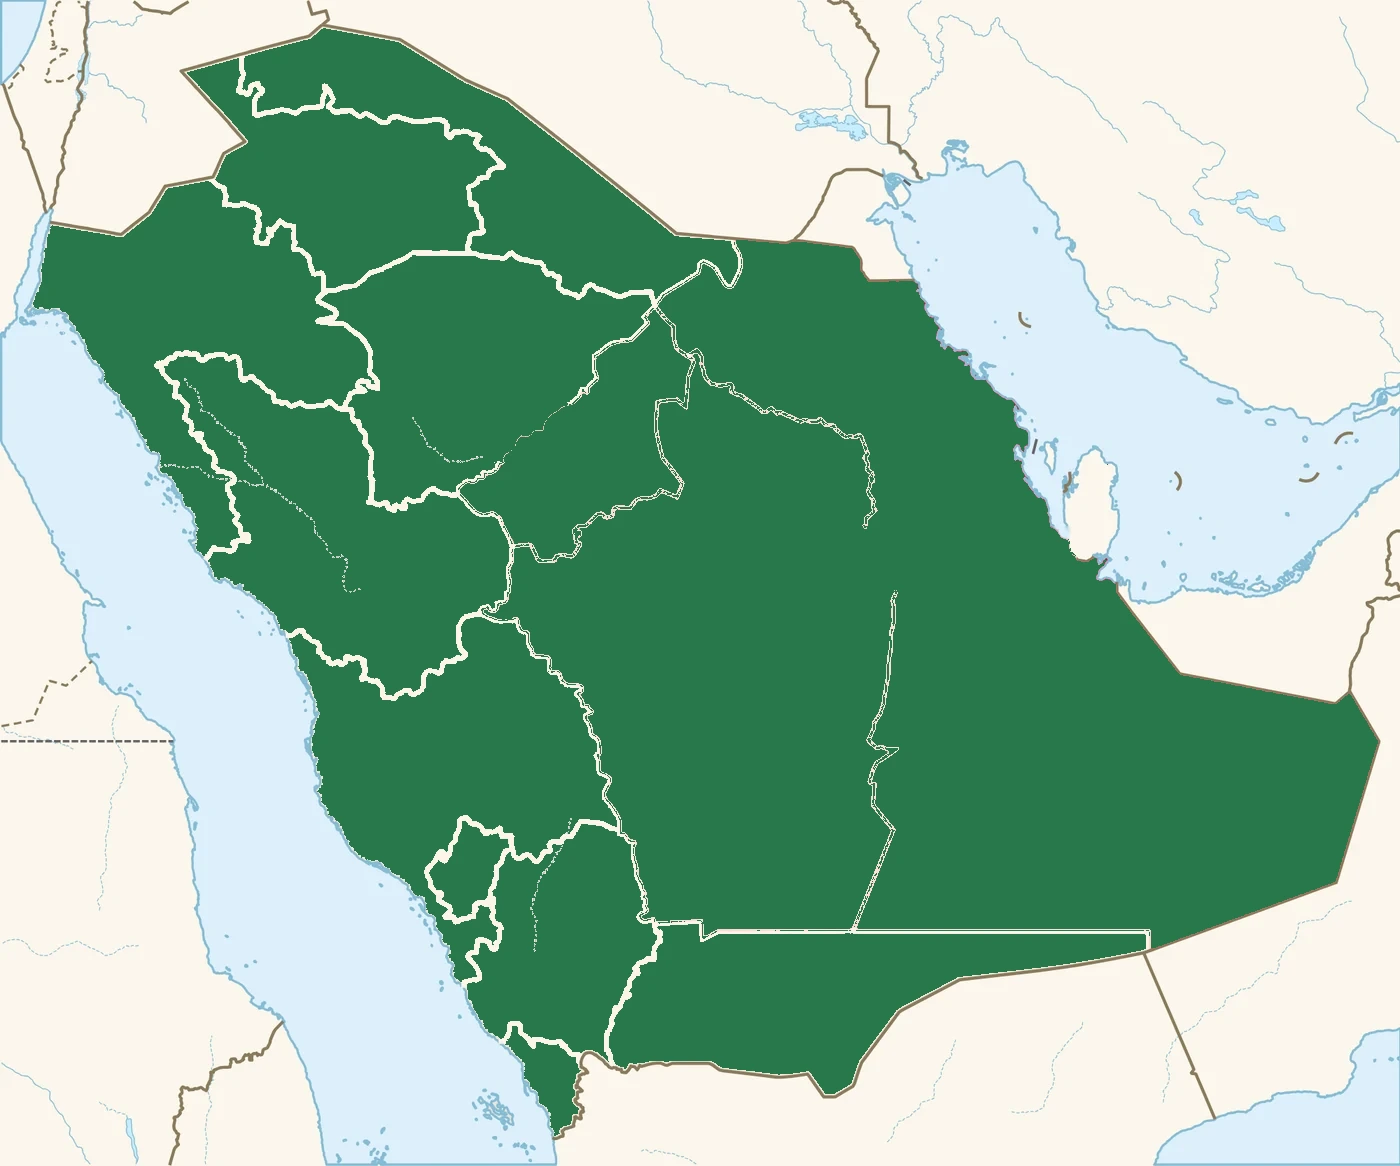
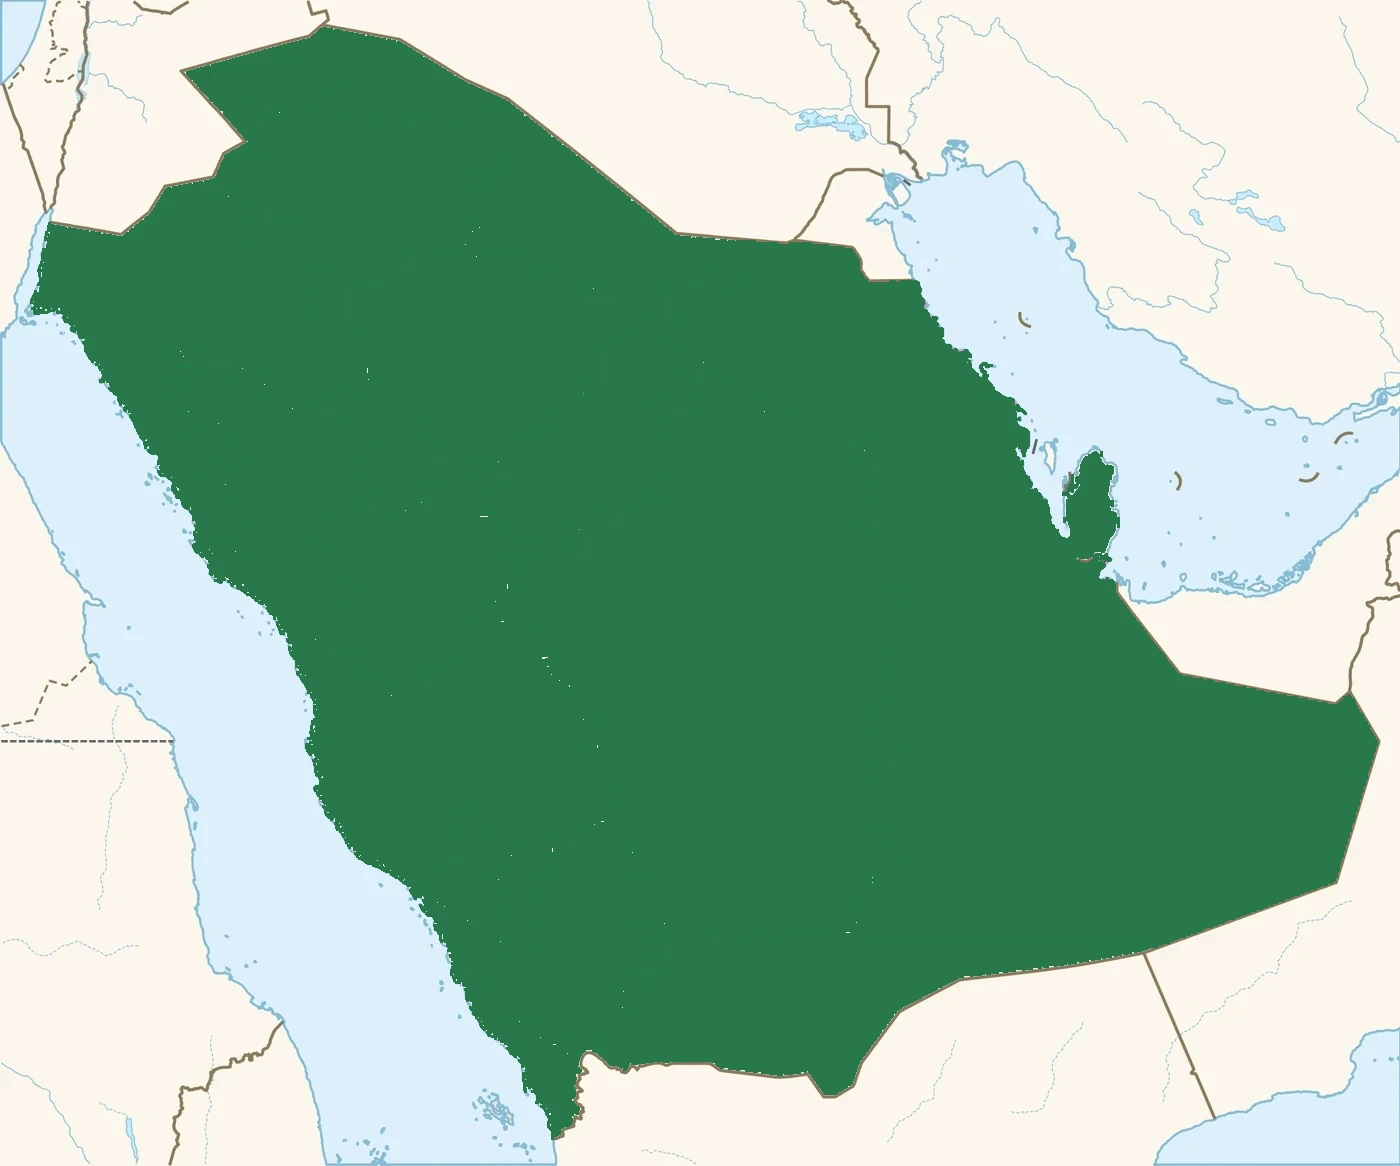
update index.html content

diff --git a/index.html b/index.html
@@ -81,20 +81,9 @@
   .coverage .eyebrow{background:rgba(255,255,255,.14);color:var(--gold-light);}
   .coverage h2{color:var(--white);font-size:clamp(1.8rem,3.6vw,2.4rem);margin-bottom:14px;}
   .coverage p.sub{color:rgba(255,255,255,.8);max-width:600px;margin:0 auto 44px;}
-  .coverage-body{display:flex;align-items:center;gap:56px;max-width:960px;margin:0 auto;text-align:right;}
-  .coverage-map{flex:1.2;min-width:0;}
+  .coverage-body{display:flex;align-items:center;justify-content:center;max-width:640px;margin:0 auto;}
+  .coverage-map{width:100%;min-width:0;}
   .coverage-map img{width:100%;height:auto;display:block;border-radius:18px;box-shadow:0 20px 46px rgba(0,0,0,.32);}
-  .coverage-legend{flex:1;display:flex;flex-direction:column;gap:20px;}
-  .coverage-city{display:flex;align-items:center;gap:14px;}
-  .coverage-city .dot{width:14px;height:14px;border-radius:50%;background:var(--gold);flex-shrink:0;
-    box-shadow:0 0 0 5px rgba(227,162,61,.22);}
-  .coverage-city b{display:block;font-size:1.1rem;font-weight:800;margin-bottom:2px;}
-  .coverage-city span{color:rgba(255,255,255,.65);font-size:.85rem;}
-  @media (max-width:820px){
-    .coverage-body{flex-direction:column;gap:32px;}
-    .coverage-legend{flex-direction:row;flex-wrap:wrap;justify-content:center;gap:22px;width:100%;}
-    .coverage-city{flex-direction:column;text-align:center;gap:8px;}
-  }
 
   /* ---------- section heading ---------- */
   .sec-head{text-align:center;max-width:680px;margin:0 auto 46px;}
@@ -331,29 +320,6 @@
       <div class="coverage-body">
         <div class="coverage-map">
           <img src="assets/coverage-map.webp" alt="خريطة تغطية التوصيل: جميع مناطق المملكة العربية السعودية">
-        </div>
-        <div class="coverage-legend">
-          <div class="coverage-city">
-            <span class="dot"></span>
-            <div>
-              <b>أسواق الجملة والسوبر ماركت</b>
-              <span>توصيل مباشر</span>
-            </div>
-          </div>
-          <div class="coverage-city">
-            <span class="dot"></span>
-            <div>
-              <b>المطاعم والكافيهات</b>
-              <span>توصيل مباشر</span>
-            </div>
-          </div>
-          <div class="coverage-city">
-            <span class="dot"></span>
-            <div>
-              <b>الإعاشة والتموين</b>
-              <span>توصيل مباشر</span>
-            </div>
-          </div>
         </div>
       </div>
     </div>